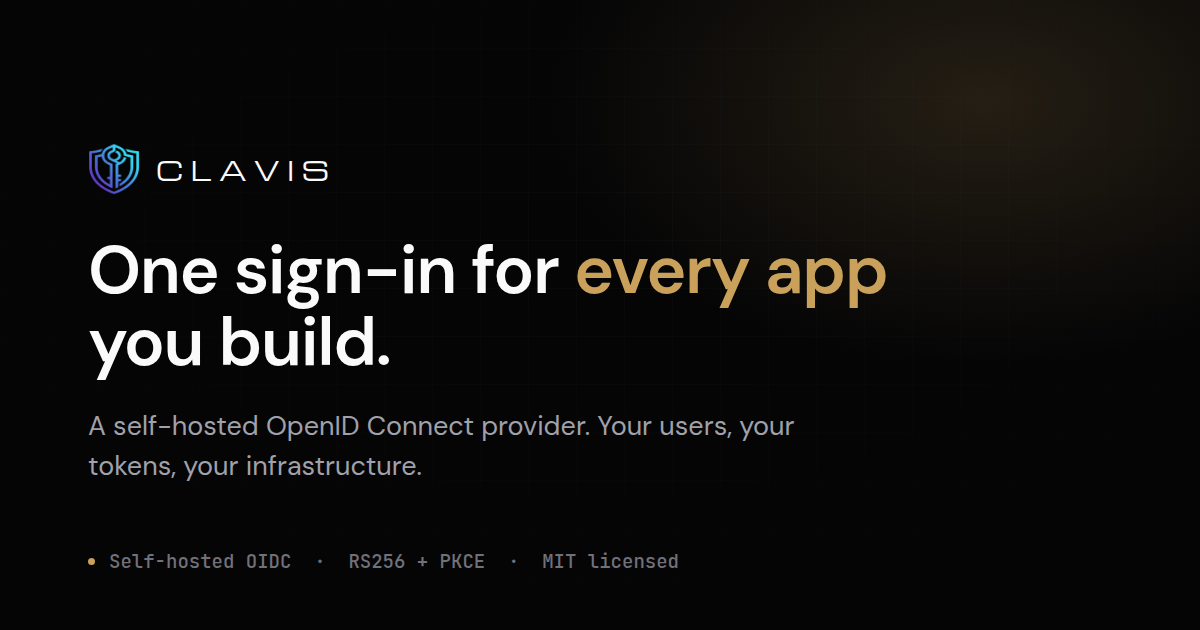
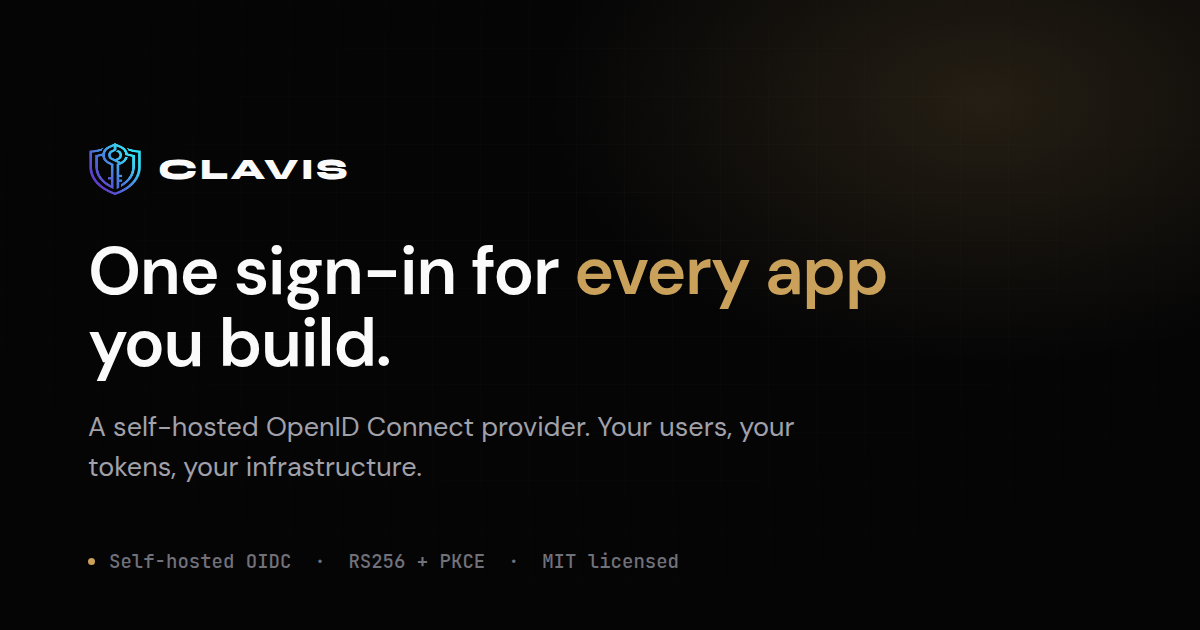
feat(ui): Syne wordmark, drop MIT text from footer
Swaps the Clavis wordmark from Michroma to Syne (800, tighter tracking)
across nav, footer, auth pages and the OG card. Removes the MIT licensed
label beside the footer logo.

diff --git a/frontend/src/index.css b/frontend/src/index.css
@@ -1,9 +1,9 @@
-@import url("https://fonts.googleapis.com/css2?family=DM+Sans:wght@400;500;600;700&family=JetBrains+Mono:wght@400;500;600&family=Michroma&display=swap");
+@import url("https://fonts.googleapis.com/css2?family=DM+Sans:wght@400;500;600;700&family=JetBrains+Mono:wght@400;500;600&family=Syne:wght@700;800&display=swap");
 @import "tailwindcss";
 
 @theme {
   --font-sans: "DM Sans", sans-serif;
-  --font-brand: "Michroma", sans-serif;
+  --font-brand: "Syne", sans-serif;
   --font-mono: "JetBrains Mono", ui-monospace, "SFMono-Regular", "Menlo", monospace;
   --color-brass: #c9a15a;
 }

diff --git a/frontend/src/pages/landing/footer.tsx b/frontend/src/pages/landing/footer.tsx
@@ -12,10 +12,7 @@ export function LandingFooter() {
   return (
     <footer className="border-t border-zinc-800/80">
       <div className="mx-auto flex max-w-5xl flex-col items-center justify-between gap-4 px-5 py-6 sm:flex-row">
-        <div className="flex items-center gap-3">
-          <Logo />
-          <span className="text-xs text-zinc-400">MIT licensed</span>
-        </div>
+        <Logo />
         <ul className="flex flex-wrap justify-center gap-x-5 gap-y-2 text-sm text-zinc-400">
           {LINKS.map((link) => (
             <li key={link.label}>

diff --git a/frontend/src/components/auth-layout.tsx b/frontend/src/components/auth-layout.tsx
@@ -22,7 +22,7 @@ export function Logo({ to = "/" }: { to?: string }) {
   return (
     <Link to={to} className="flex items-center gap-2.5">
       <img src="/logo-mark.png" alt="" className="size-7" />
-      <span className="font-brand text-sm tracking-[0.28em] text-zinc-50">
+      <span className="font-brand text-sm font-extrabold tracking-[0.1em] text-zinc-50">
         {SITE.name.toUpperCase()}
       </span>
     </Link>
